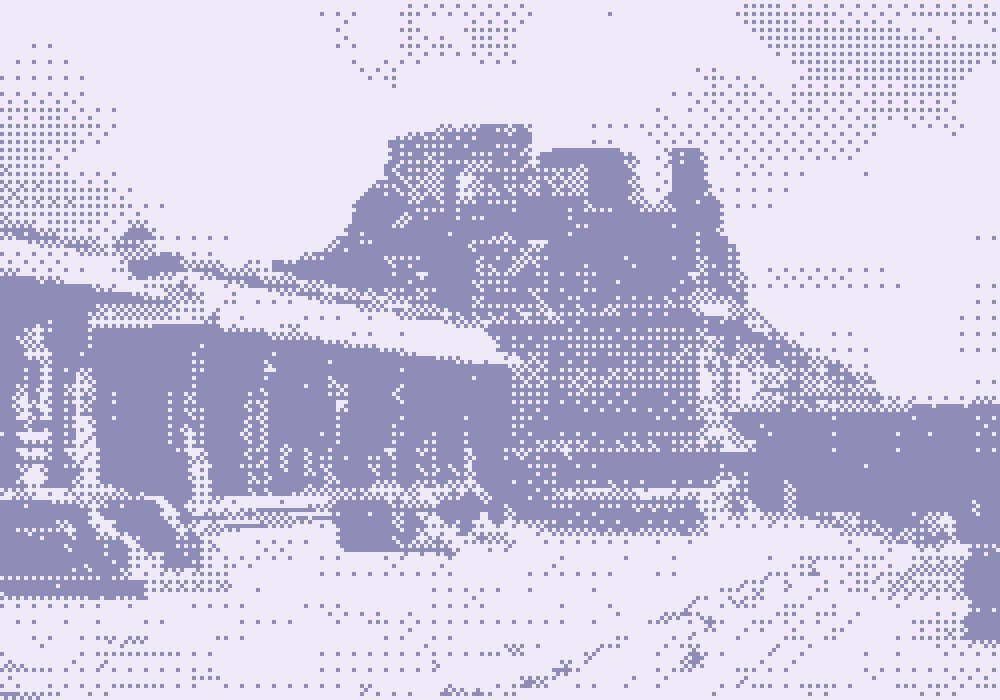
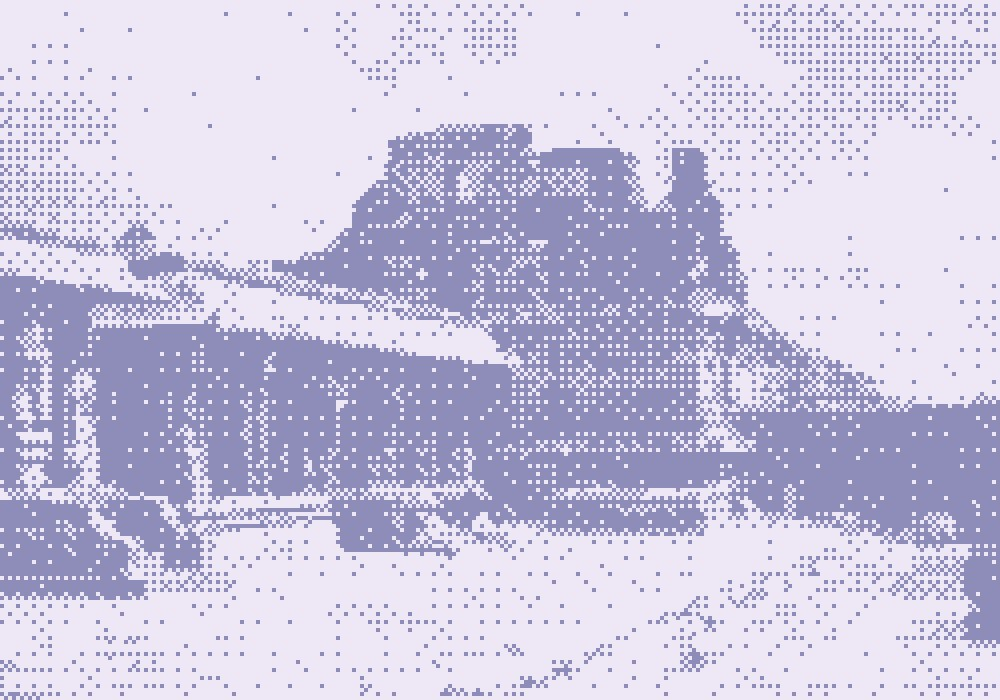
Strand headers: animated dither GIFs (static crawl), still JPG for reduced motion
Claude-Session: https://claude.ai/code/session_01AVabTRsKoHpHLheAooNiPc

diff --git a/herabio.tech/index.html b/herabio.tech/index.html
@@ -87,10 +87,10 @@ a:focus-visible,button:focus-visible,input:focus-visible{outline:2px solid var(-
 .ledger{display:grid;grid-template-columns:1fr;gap:24px}
 .cell{border:1px solid var(--paper);padding:0;min-width:0;display:grid;grid-template-columns:minmax(0,2fr) minmax(0,3fr);background:var(--ink);position:relative;overflow:hidden}
 .cell .fig{min-height:260px;background-size:cover;background-position:center;border-right:1px solid var(--paper);filter:grayscale(1) contrast(1.1)}
-.cell .fig.c1{background-image:url("img/strand_sakuya.jpg");filter:none}
-.cell .fig.c2{background-image:url("img/strand_shikhandi.jpg");filter:none}
+.cell .fig.c1{background-image:url("img/strand_sakuya.gif");filter:none}
+.cell .fig.c2{background-image:url("img/strand_shikhandi.gif");filter:none}
 .cell .fig.c3{background-image:url("img/nike.jpg")}
-.cell .fig.c4{background-image:url("img/strand_hathor.jpg");filter:none}
+.cell .fig.c4{background-image:url("img/strand_hathor.gif");filter:none}
 /* RESEARCH ROW */
 .research{display:grid;grid-template-columns:minmax(0,2fr) minmax(0,3fr);gap:0;border:1px solid var(--paper);background:var(--ink)}
 .research .rfig{min-height:260px;background:url("img/columns.jpg") center/cover;filter:grayscale(1) contrast(1.1);border-right:1px solid var(--paper)}
@@ -149,6 +149,7 @@ footer a{text-decoration:none}footer a:hover{text-decoration:underline}
   .ledger,.swatches,.story,.signup{grid-template-columns:1fr}
   .wrap{gap:64px}
 }
+@media (prefers-reduced-motion:reduce){.cell .fig.c1{background-image:url("img/strand_sakuya.jpg")}.cell .fig.c4{background-image:url("img/strand_hathor.jpg")}.cell .fig.c2{background-image:url("img/strand_shikhandi.jpg")}}
 @media (prefers-reduced-motion:no-preference){
   .print{animation:pin .9s cubic-bezier(.2,.8,.2,1) both}
   @keyframes pin{from{transform:translateY(14px) rotate(-3.5deg)}to{transform:rotate(-2deg)}}
